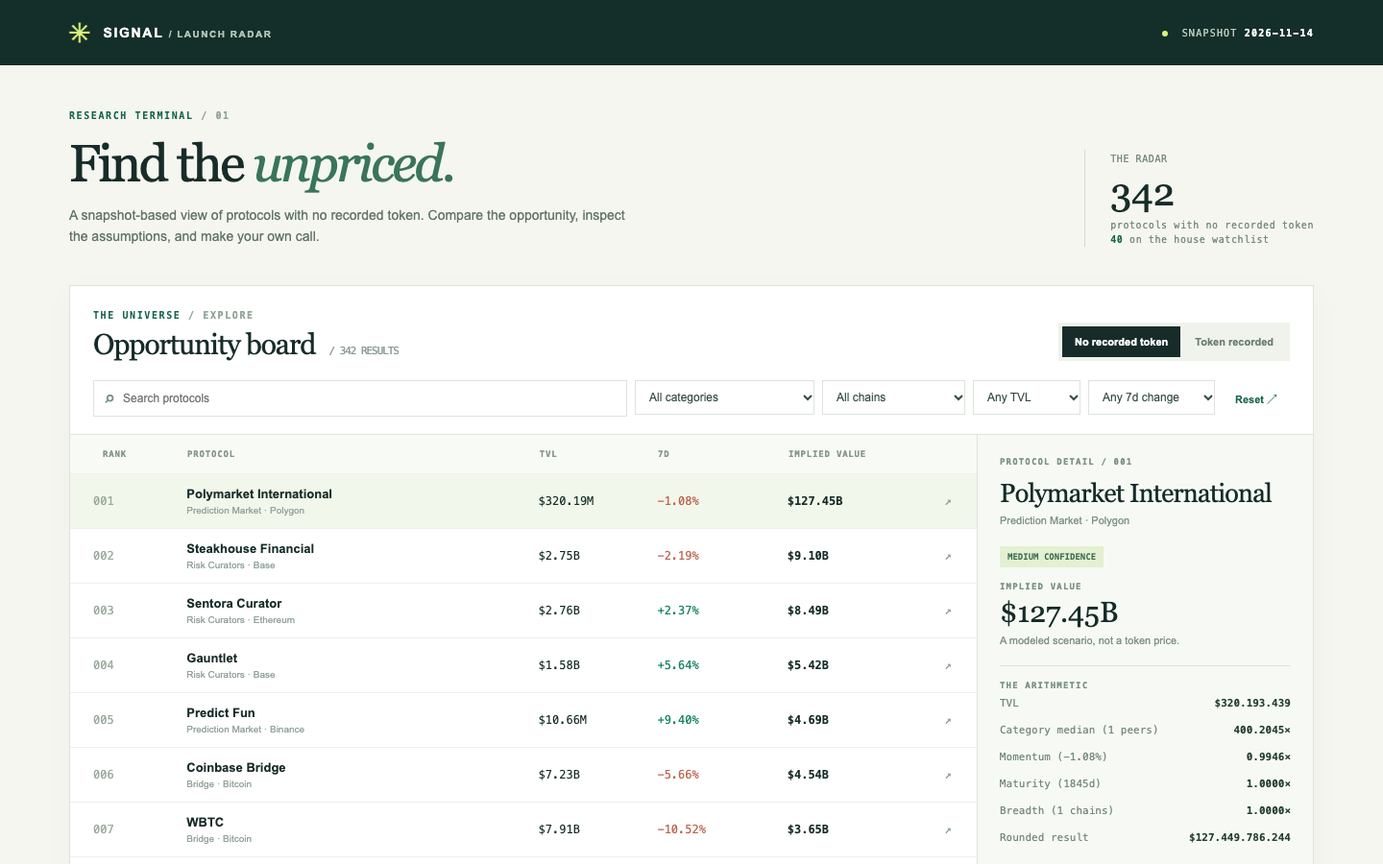
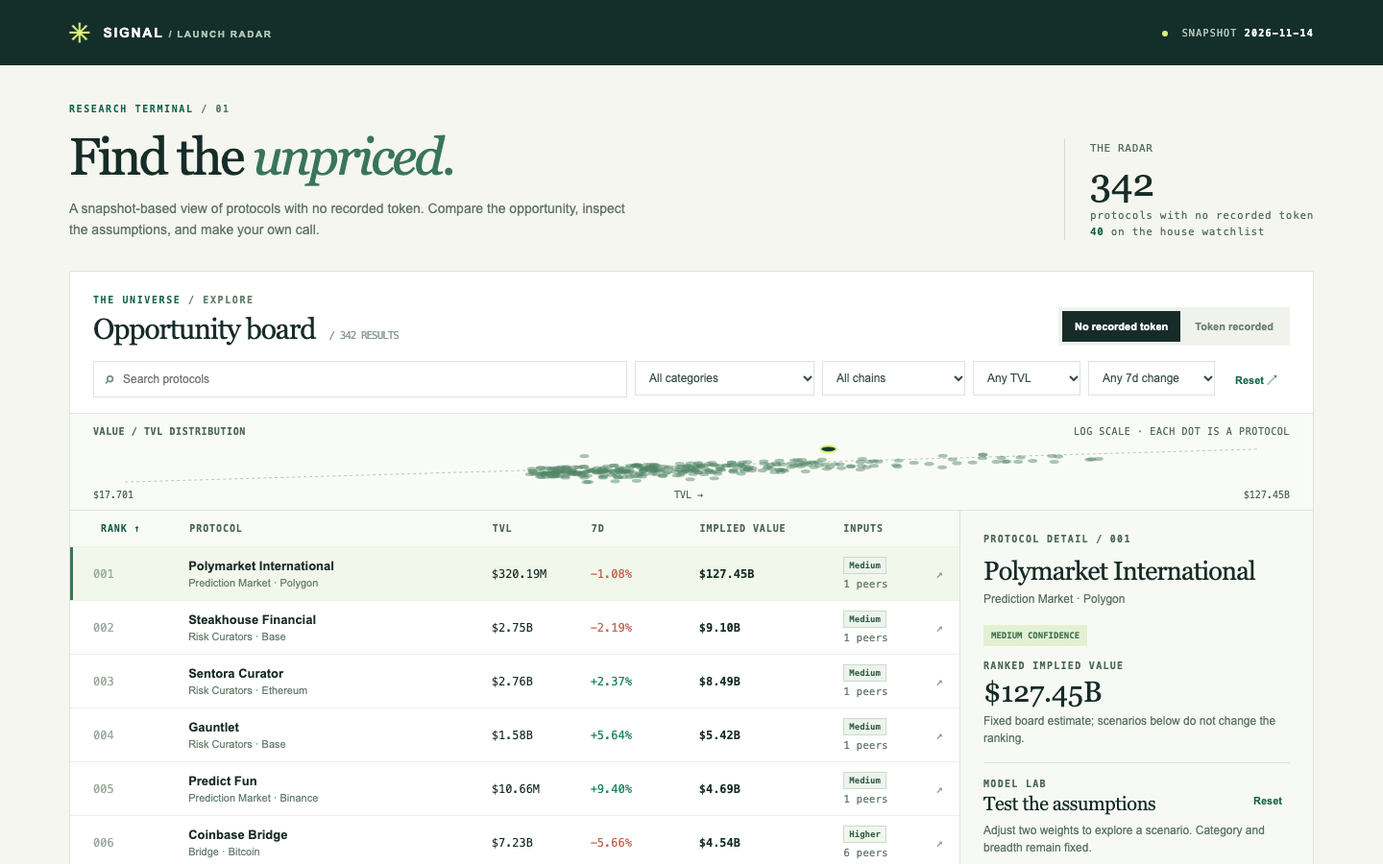
Radar dashboard: linkable state, keyboard navigation, live model panel

diff --git a/dashboard/app.js b/dashboard/app.js
@@ -1,47 +1,129 @@
-// The data script is generated by the same run as the ranked board.
+// The board remains fixed; scenario controls only change the selected detail.
 const data = window.RADAR;
-const $ = (s) => document.querySelector(s);
-const esc = (v) => String(v ?? '—').replace(/[&<>"']/g, c => ({'&':'&amp;','<':'&lt;','>':'&gt;','"':'&quot;',"'":'&#39;'}[c]));
-const money = n => n == null ? '—' : '$' + (n >= 1e9 ? (n/1e9).toFixed(2)+'B' : n >= 1e6 ? (n/1e6).toFixed(2)+'M' : Math.round(n).toLocaleString());
+const $ = s => document.querySelector(s);
+const escapeText = value => String(value ?? '—').replace(/[&<>"']/g, c => ({'&':'&amp;','<':'&lt;','>':'&gt;','"':'&quot;',"'":'&#39;'}[c]));
+const money = n => n == null ? '—' : '$' + (n >= 1e9 ? (n / 1e9).toFixed(2) + 'B' : n >= 1e6 ? (n / 1e6).toFixed(2) + 'M' : Math.round(n).toLocaleString());
+const dollars = n => '$' + Math.round(n).toLocaleString();
 const pct = n => n == null ? '—' : (n > 0 ? '+' : '') + n.toFixed(2) + '%';
-const x = n => n.toFixed(4) + '×';
-const state = {status:'early', sort:'rank', direction:1, selected:null};
-const params = new URLSearchParams(location.search);
-if (params.get('view') === 'live') state.status = 'live';
-if (params.get('category')) $('#category').dataset.initial = params.get('category');
-if (params.get('slug')) state.selected = params.get('slug');
+const multiple = n => n.toFixed(4) + '×';
+const defaults = {status:'early', sort:'rank', direction:'asc', category:'', chain:'', tvl:'', growth:'', search:'', slug:'', weight:'0.5', floor:'0.75'};
+const allowedSorts = ['rank','name','tvl_usd','change_7d','implied_value_usd'];
+let state = {...defaults};
+let visible = [];
+const all = [...data.rows, ...data.live];
 $('#date').textContent = data.as_of;
 $('#total').textContent = data.rows.length;
 $('#watch').textContent = data.watchlist_size;
-const all = [...data.rows,...data.live];
-for (const [selector, values] of [['#category', all.map(r=>r.category || 'Unclassified')], ['#chain', all.flatMap(r=>r.chains)]]) {
-  for (const value of [...new Set(values)].sort()) $(selector).add(new Option(value,value));
+for (const [selector, values] of [['#category', all.map(r => r.category || 'Unclassified')], ['#chain', all.flatMap(r => r.chains)]]) {
+  for (const value of [...new Set(values)].sort()) $(selector).add(new Option(value, value));
 }
-if ($('#category').dataset.initial) $('#category').value = $('#category').dataset.initial;
+function readURL() {
+  const params = new URLSearchParams(location.search);
+  state = {...defaults};
+  for (const key of Object.keys(defaults)) if (params.has(key)) state[key] = params.get(key);
+  // Continue accepting the original shared links.
+  if (!params.has('status') && params.get('view') === 'live') state.status = 'live';
+  if (!['early','live'].includes(state.status)) state.status = 'early';
+  if (state.status === 'live' && !params.has('sort')) { state.sort = 'implied_value_usd'; state.direction = 'desc'; }
+  if (!allowedSorts.includes(state.sort)) state.sort = 'rank';
+  if (!['asc','desc'].includes(state.direction)) state.direction = 'asc';
+  if (!['','small','mid','large'].includes(state.tvl)) state.tvl = '';
+  if (!['','up','down','missing'].includes(state.growth)) state.growth = '';
+  for (const [key, min, max] of [['weight',0,1],['floor',0.5,1]]) {
+    const value = Number(state[key]);
+    state[key] = Number.isFinite(value) ? String(Math.min(max, Math.max(min, value))) : defaults[key];
+  }
+  for (const key of ['category','chain','tvl','growth','search']) {
+    $('#' + key).value = state[key];
+    state[key] = $('#' + key).value;
+  }
+}
+function writeURL(push = false) {
+  const params = new URLSearchParams();
+  for (const key of Object.keys(defaults)) if (state[key] !== defaults[key] && state[key] !== '') params.set(key, state[key]);
+  const query = params.toString();
+  const url = location.pathname + (query ? '?' + query : '') + location.hash;
+  if (url !== location.pathname + location.search + location.hash) history[push ? 'pushState' : 'replaceState'](null, '', url);
+}
 function filtered() {
-  const q = $('#search').value.trim().toLowerCase(), category = $('#category').value, chain = $('#chain').value, tvl = $('#tvl').value, growth = $('#growth').value;
-  return (state.status === 'early' ? data.rows : data.live).filter(r => (!q || [r.name,r.slug,r.category,...r.chains].join(' ').toLowerCase().includes(q)) && (!category || (r.category || 'Unclassified') === category) && (!chain || r.chains.includes(chain)) && (!tvl || (tvl==='small' ? r.tvl_usd<5e7 : tvl==='mid' ? r.tvl_usd>=5e7 && r.tvl_usd<1e9 : r.tvl_usd>=1e9)) && (!growth || (growth==='missing' ? r.change_7d==null : r.change_7d!=null && (growth==='up' ? r.change_7d>0 : r.change_7d<0)))).sort((a,b)=>{
-    const av=a[state.sort], bv=b[state.sort]; if(av==null)return 1;if(bv==null)return -1;
-    return (typeof av==='string' ? av.localeCompare(bv) : av-bv)*state.direction || a.name.localeCompare(b.name);
+  const q = state.search.trim().toLowerCase();
+  return (state.status === 'early' ? data.rows : data.live).filter(r => {
+    const match = !q || [r.name,r.slug,r.category,...r.chains].join(' ').toLowerCase().includes(q);
+    const tvl = !state.tvl || (state.tvl === 'small' ? r.tvl_usd < 5e7 : state.tvl === 'mid' ? r.tvl_usd >= 5e7 && r.tvl_usd < 1e9 : r.tvl_usd >= 1e9);
+    const growth = !state.growth || (state.growth === 'missing' ? r.change_7d == null : r.change_7d != null && (state.growth === 'up' ? r.change_7d > 0 : r.change_7d < 0));
+    return match && tvl && growth && (!state.category || (r.category || 'Unclassified') === state.category) && (!state.chain || r.chains.includes(state.chain));
+  }).sort((a,b) => {
+    const av = a[state.sort], bv = b[state.sort];
+    if (av == null && bv == null) return a.name.localeCompare(b.name);
+    if (av == null) return 1;
+    if (bv == null) return -1;
+    const comparison = typeof av === 'string' ? av.localeCompare(bv) : av - bv;
+    return comparison * (state.direction === 'asc' ? 1 : -1) || a.name.localeCompare(b.name);
   });
 }
+function distribution(rows) {
+  const points = rows.filter(r => r.tvl_usd > 0 && r.implied_value_usd > 0);
+  if (!points.length) { $('#distribution').innerHTML = '<p class="plot-empty">No values to plot for this view.</p>'; return; }
+  const logs = points.flatMap(r => [Math.log10(r.tvl_usd), Math.log10(r.implied_value_usd)]);
+  const lo = Math.min(...logs), hi = Math.max(...logs), span = hi - lo || 1;
+  const pos = n => 16 + (Math.log10(n) - lo) / span * 568;
+  const marks = points.map(r => `<circle cx="${pos(r.tvl_usd).toFixed(2)}" cy="${(48 - (Math.log10(r.implied_value_usd) - lo) / span * 40).toFixed(2)}" r="${r.slug === state.slug ? 4 : 2.4}" class="${r.slug === state.slug ? 'plot-selected' : 'plot-dot'}"><title>${escapeText(r.name)}: TVL ${money(r.tvl_usd)}, ${state.status === 'early' ? 'implied value' : 'market cap'} ${money(r.implied_value_usd)}</title></circle>`).join('');
+  $('#distribution').innerHTML = `<svg viewBox="0 0 600 56" preserveAspectRatio="none" role="img" aria-label="Horizontal position is TVL, vertical position is ${state.status === 'early' ? 'implied value' : 'market cap'}, logarithmic scales"><line x1="16" y1="48" x2="584" y2="8" class="plot-parity"/>${marks}</svg><div class="plot-axis"><span>${money(10 ** lo)}</span><span>TVL →</span><span>${money(10 ** hi)}</span></div>`;
+}
+function scenario(r) {
+  const m = r.model, weight = Number(state.weight), floor = Number(state.floor);
+  const momentum = 1 + m.growth / 100 * weight;
+  const fraction = Math.min(r.age_days ?? 365, 730) / 730;
+  const maturity = floor + (1 - floor) * fraction;
+  const result = Math.max(1, Math.round(r.tvl_usd * m.multiple * momentum * maturity * m.breadth));
+  return {momentum, maturity, result, fraction};
+}
 function detail(r) {
-  if (!r) { $('#detail').innerHTML='<div class="label">PROTOCOL DETAIL</div><h3>No selection</h3><p class="sub">Change the filters to see a protocol.</p>'; return; }
-  const isEarly=state.status==='early', m=r.model;
-  $('#detail').innerHTML = `<div class="label">${isEarly?'PROTOCOL DETAIL / '+String(r.rank).padStart(3,'0'):'TOKEN RECORD'}</div><h3>${esc(r.name)}</h3><div class="sub">${esc(r.category || 'Unclassified')} · ${esc(r.chains.join(', ') || 'Chain not reported')}</div><div class="badge">${isEarly ? esc(r.confidence.toUpperCase())+' CONFIDENCE' : 'TOKEN RECORDED'}</div><div class="label">${isEarly?'IMPLIED VALUE':'RECORDED MARKET CAP'}</div><div class="detail-value">${money(r.implied_value_usd)}</div><div class="explain">${isEarly?'A modeled scenario, not a token price.':'Market cap from the snapshot; unavailable when not reported.'}</div>${isEarly ? `<div class="calc"><div class="label">THE ARITHMETIC</div><div class="calc-row"><span>TVL</span><b>$${r.tvl_usd.toLocaleString()}</b></div><div class="calc-row"><span>Category median (${m.peer_count} peers)</span><b>${x(m.multiple)}</b></div><div class="calc-row"><span>Momentum (${pct(r.change_7d)})</span><b>${x(m.momentum)}</b></div><div class="calc-row"><span>Maturity (${r.age_days==null?'365d fallback':r.age_days+'d'})</span><b>${x(m.maturity)}</b></div><div class="calc-row"><span>Breadth (${r.chains.length} chains)</span><b>${x(m.breadth)}</b></div><div class="calc-row"><span>Rounded result</span><b>$${r.implied_value_usd.toLocaleString()}</b></div></div><h4>FIELD PLAN / ESTIMATES</h4><ol>${r.farm_steps.map(s=>`<li>${esc(s)}</li>`).join('')}</ol>` : `<div class="calc"><div class="calc-row"><span>TVL</span><b>${money(r.tvl_usd)}</b></div><div class="calc-row"><span>7-day change</span><b>${pct(r.change_7d)}</b></div><div class="calc-row"><span>Symbol</span><b>${esc(r.symbol)}</b></div><div class="calc-row"><span>Listed</span><b>${esc(r.listed_at)}</b></div></div>`}`;
+  const panel = $('#detail');
+  if (!r) { panel.innerHTML = '<div class="label">PROTOCOL DETAIL</div><h3>No selection</h3><p class="sub">Change the filters to see a protocol.</p>'; return; }
+  const early = state.status === 'early', m = r.model;
+  panel.innerHTML = `<div class="label">${early ? 'PROTOCOL DETAIL / ' + String(r.rank).padStart(3,'0') : 'TOKEN RECORD'}</div><h3>${escapeText(r.name)}</h3><div class="sub">${escapeText(r.category || 'Unclassified')} · ${escapeText(r.chains.join(', ') || 'Chain not reported')}</div><div class="badge">${early ? escapeText(r.confidence.toUpperCase()) + ' CONFIDENCE' : 'TOKEN RECORDED'}</div><div class="label">${early ? 'RANKED IMPLIED VALUE' : 'RECORDED MARKET CAP'}</div><div class="detail-value">${money(r.implied_value_usd)}</div><div class="explain">${early ? 'Fixed board estimate; scenarios below do not change the ranking.' : 'Market cap from the snapshot; unavailable when not reported.'}</div>${early ? `<section class="calc"><div class="calc-heading"><div><div class="label">MODEL LAB</div><h4>Test the assumptions</h4></div><button id="reset-model" class="model-reset">Reset</button></div><p class="explain">Adjust two weights to explore a scenario. Category and breadth remain fixed.</p><label class="slider-label" for="weight">Momentum weight <output id="weight-value"></output></label><input class="slider" id="weight" type="range" min="0" max="1" step="0.05" value="${escapeText(state.weight)}"><label class="slider-label" for="floor">Maturity floor <output id="floor-value"></output></label><input class="slider" id="floor" type="range" min="0.5" max="1" step="0.05" value="${escapeText(state.floor)}"><div id="scenario-result" aria-live="polite"></div></section><h4>FIELD PLAN / ESTIMATES</h4><ol>${r.farm_steps.map(s => `<li>${escapeText(s)}</li>`).join('')}</ol><div class="record"><h4>SNAPSHOT RECORD</h4><div class="calc-row"><span>Listed</span><b>${escapeText(r.listed_at)}</b></div><div class="calc-row"><span>Watchlist</span><b>${r.watchlist ? 'Yes' : 'No'}</b></div><div class="calc-row"><span>Slug</span><b>${escapeText(r.slug)}</b></div></div>` : `<div class="calc"><div class="calc-row"><span>TVL</span><b>${money(r.tvl_usd)}</b></div><div class="calc-row"><span>7-day change</span><b>${pct(r.change_7d)}</b></div><div class="calc-row"><span>Symbol</span><b>${escapeText(r.symbol)}</b></div><div class="calc-row"><span>Listed</span><b>${escapeText(r.listed_at)}</b></div></div>`}`;
+  if (early) updateScenario(r);
+}
+function updateScenario(r) {
+  const m = r.model, s = scenario(r);
+  $('#weight-value').textContent = Number(state.weight).toFixed(2) + '×';
+  $('#floor-value').textContent = Number(state.floor).toFixed(2) + '×';
+  $('#scenario-result').innerHTML = `<div class="scenario-total"><span>SCENARIO VALUE</span><strong>${dollars(s.result)}</strong></div><div class="calc-row"><span>TVL</span><b>${dollars(r.tvl_usd)}</b></div><div class="calc-row"><span>Category median · ${m.peer_count} peers${m.peer_count ? '' : ' / fallback'}</span><b>${multiple(m.multiple)}</b></div><div class="calc-row"><span>Momentum · ${pct(m.growth)} clamped × ${Number(state.weight).toFixed(2)}</span><b>${multiple(s.momentum)}</b></div><div class="calc-row"><span>Maturity · ${r.age_days == null ? '365d fallback' : r.age_days + 'd'} / 730d</span><b>${multiple(s.maturity)}</b></div><div class="calc-row"><span>Breadth · ${r.chains.length} chains</span><b>${multiple(m.breadth)}</b></div><p class="formula">${dollars(r.tvl_usd)} × ${multiple(m.multiple)} × ${multiple(s.momentum)} × ${multiple(s.maturity)} × ${multiple(m.breadth)} = ${dollars(s.result)}<br><span>Terms shown rounded; calculation uses full precision.</span></p>`;
 }
 function render() {
-  document.querySelectorAll('[data-status]').forEach(b=>b.classList.toggle('active',b.dataset.status===state.status));
-  const rows=filtered(); if (!rows.some(r=>r.slug===state.selected)) state.selected=rows[0]?.slug || null;
-  $('#count').textContent=`/ ${rows.length} RESULTS`;
-  $('#shown').textContent=`${rows.length} RECORDS · ${state.status==='early'?'RANKED BY MODEL':'MARKET CAP VIEW'}`;
-  $('#empty').hidden=rows.length>0;
-  $('#rows').innerHTML=rows.map(r=>`<tr class="data ${r.slug===state.selected?'selected':''}" data-slug="${esc(r.slug)}"><td class="rank">${r.rank ? String(r.rank).padStart(3,'0') : '—'}</td><td class="name">${esc(r.name)}<small>${esc(r.category || 'Unclassified')} · ${esc(r.chains[0] || 'No chain')}</small></td><td>${money(r.tvl_usd)}</td><td class="${r.change_7d>0?'positive':r.change_7d<0?'negative':''}">${pct(r.change_7d)}</td><td class="value">${money(r.implied_value_usd)}</td><td class="arrow">↗</td></tr>`).join('');
-  detail(rows.find(r=>r.slug===state.selected));
+  document.querySelectorAll('[data-status]').forEach(b => { b.classList.toggle('active', b.dataset.status === state.status); b.setAttribute('aria-pressed', String(b.dataset.status === state.status)); });
+  visible = filtered();
+  if (!visible.some(r => r.slug === state.slug)) state.slug = visible[0]?.slug || '';
+  $('#count').textContent = `/ ${visible.length} RESULTS`;
+  $('#shown').textContent = `${visible.length} RECORDS · ${state.status === 'early' ? 'MODEL VIEW' : 'MARKET CAP VIEW'}`;
+  $('#empty').hidden = visible.length > 0;
+  document.querySelectorAll('[data-sort]').forEach(b => { const active = b.dataset.sort === state.sort; b.classList.toggle('sorting',active); b.setAttribute('aria-label', b.textContent.replace(/ [↑↓]$/, '') + (active ? ', sorted ' + state.direction : ', sort')); b.textContent = b.textContent.replace(/ [↑↓]$/, '') + (active ? (state.direction === 'asc' ? ' ↑' : ' ↓') : ''); });
+  $('#rows').innerHTML = visible.map(r => `<tr class="data ${r.slug === state.slug ? 'selected' : ''}" data-slug="${escapeText(r.slug)}" aria-selected="${r.slug === state.slug}"><td class="rank">${r.rank ? String(r.rank).padStart(3,'0') : '—'}</td><td class="name">${escapeText(r.name)}<small>${escapeText(r.category || 'Unclassified')} · ${escapeText(r.chains[0] || 'No chain')}</small></td><td>${money(r.tvl_usd)}</td><td class="${r.change_7d > 0 ? 'positive' : r.change_7d < 0 ? 'negative' : ''}">${pct(r.change_7d)}</td><td class="value">${money(r.implied_value_usd)}</td><td>${r.model ? `<span class="confidence ${r.confidence.toLowerCase()}">${escapeText(r.confidence)}</span><small class="peer-count">${r.model.peer_count} peers</small>` : '<span class="peer-count">Market cap</span>'}</td><td class="arrow">↗</td></tr>`).join('');
+  distribution(visible);
+  detail(visible.find(r => r.slug === state.slug));
+  writeURL();
 }
-$('#rows').addEventListener('click',e=>{const row=e.target.closest('tr[data-slug]');if(row){state.selected=row.dataset.slug;render();}});
-document.querySelectorAll('[data-status]').forEach(b=>b.addEventListener('click',()=>{state.status=b.dataset.status;state.sort=state.status==='early'?'rank':'implied_value_usd';state.direction=state.status==='early'?1:-1;state.selected=null;render();}));
-document.querySelectorAll('[data-sort]').forEach(b=>b.addEventListener('click',()=>{const key=b.dataset.sort;state.direction=state.sort===key?-state.direction:(key==='name'||key==='rank'?1:-1);state.sort=key;render();}));
-document.querySelectorAll('input,select').forEach(el=>el.addEventListener('input',render));
-$('#reset').addEventListener('click',()=>{document.querySelectorAll('input,select').forEach(el=>el.value='');render();});
+function selectRelative(offset) {
+  if (!visible.length) return;
+  const current = visible.findIndex(r => r.slug === state.slug);
+  state.slug = visible[Math.max(0, Math.min(visible.length - 1, current + offset))].slug;
+  writeURL(true); render();
+  document.querySelector('tr.selected')?.scrollIntoView({block:'nearest'});
+}
+$('#rows').addEventListener('click', e => { const row = e.target.closest('tr[data-slug]'); if (row) { state.slug = row.dataset.slug; writeURL(true); render(); } });
+document.querySelectorAll('[data-status]').forEach(b => b.addEventListener('click', () => { state.status = b.dataset.status; state.sort = state.status === 'early' ? 'rank' : 'implied_value_usd'; state.direction = state.status === 'early' ? 'asc' : 'desc'; state.slug = ''; writeURL(true); render(); }));
+document.querySelectorAll('[data-sort]').forEach(b => b.addEventListener('click', () => { const key = b.dataset.sort; state.direction = state.sort === key ? (state.direction === 'asc' ? 'desc' : 'asc') : (key === 'name' || key === 'rank' ? 'asc' : 'desc'); state.sort = key; writeURL(true); render(); }));
+for (const key of ['category','chain','tvl','growth','search']) $('#' + key).addEventListener('input', e => { state[key] = e.target.value; state.slug = ''; writeURL(key !== 'search'); render(); });
+$('#reset').addEventListener('click', () => { for (const key of ['category','chain','tvl','growth','search']) { state[key] = ''; $('#' + key).value = ''; } state.slug = ''; writeURL(true); render(); });
+$('#detail').addEventListener('input', e => { if (e.target.id === 'weight' || e.target.id === 'floor') { state[e.target.id] = e.target.value; writeURL(); const row = visible.find(r => r.slug === state.slug); if (row?.model) updateScenario(row); } });
+$('#detail').addEventListener('click', e => { if (e.target.id === 'reset-model') { state.weight = defaults.weight; state.floor = defaults.floor; writeURL(true); detail(visible.find(r => r.slug === state.slug)); } });
+document.addEventListener('keydown', e => {
+  if (e.key === 'Escape') { if (state.search) { state.search = ''; $('#search').value = ''; state.slug = ''; writeURL(true); render(); } return; }
+  if (e.target.matches('input, select, textarea, button') || e.target.isContentEditable || e.metaKey || e.ctrlKey || e.altKey) return;
+  if (['j','ArrowDown','k','ArrowUp'].includes(e.key)) { e.preventDefault(); selectRelative(e.key === 'j' || e.key === 'ArrowDown' ? 1 : -1); }
+  if (e.key === 'Enter' && state.slug) { e.preventDefault(); $('#detail').focus(); $('#detail').scrollIntoView({block:'nearest'}); }
+});
+window.addEventListener('popstate', () => { readURL(); render(); });
+readURL();
 render();

diff --git a/dashboard/app.css b/dashboard/app.css
@@ -1,3 +1,14 @@
 :root{--ink:#172c29;--muted:#6c7d76;--paper:#f5f6ef;--line:#dce4db;--green:#17644e;--lime:#d8f27a;--white:#fff}*{box-sizing:border-box}body{margin:0;background:var(--paper);color:var(--ink);font-family:Arial,Helvetica,sans-serif;font-size:14px}.top{height:68px;background:#142f29;color:#fff;display:flex;align-items:center;justify-content:space-between;padding:0 5%;position:sticky;top:0;z-index:5}.brand{color:inherit;text-decoration:none;display:flex;align-items:center;gap:12px;font-weight:800;letter-spacing:.12em}.brandmark{font-size:29px;color:var(--lime)}.brand small{font-size:10px;letter-spacing:.15em;color:#afc4b7}.topnote{font:10px monospace;letter-spacing:.12em;color:#b8cabe}.topnote i{display:inline-block;background:var(--lime);width:6px;height:6px;border-radius:50%;margin-right:8px}.topnote b{color:#fff}main{max-width:1500px;margin:auto;padding:0 5%}.intro{display:flex;justify-content:space-between;align-items:end;padding:47px 0 40px}.intro>div:first-child{max-width:690px}.eyebrow{font:700 10px monospace;letter-spacing:.16em;color:var(--green)}.eyebrow span{color:#94a79a}h1,h2,p{margin:0}h1{font:500 54px Georgia,serif;letter-spacing:-.045em;margin:13px 0}em{font-weight:400;color:#39745c}h1+p,.method>div>p{line-height:1.55;color:#60746a;max-width:580px}.intro-side{border-left:1px solid #cfdcd1;padding-left:26px;min-width:225px}.intro-side span,.intro-side p,.table-foot{font:10px/1.5 monospace;letter-spacing:.06em;color:#778a80}.intro-side strong{display:block;font:40px Georgia,serif;margin:4px 0}.intro-side b{color:var(--green)}.workspace{background:#fff;border:1px solid var(--line);box-shadow:0 9px 30px #24432c08}.section-head{display:flex;align-items:end;justify-content:space-between;padding:25px 24px 20px}.section-head h2,.method h2{font:30px Georgia,serif;letter-spacing:-.035em;margin-top:7px}.section-head h2 span{font:11px monospace;color:#8a9b90;margin-left:8px}.tabs{display:flex;background:#eff3ec;padding:4px;gap:2px}.tabs button,.reset{border:0;background:transparent;color:#6b7d72;cursor:pointer;font-size:11px;font-weight:bold;padding:10px 13px}.tabs button.active{background:var(--ink);color:white}.filters{display:flex;gap:8px;padding:0 24px 18px;border-bottom:1px solid var(--line)}input,select{font:12px Arial;color:#334c40;background:#fff;border:1px solid var(--line);height:36px;outline-color:#75a584}select{padding:0 23px 0 10px;min-width:0}.search{border:1px solid var(--line);display:flex;align-items:center;padding:0 10px;flex:1;min-width:120px}.search span{font-size:20px;color:#769185}.search input{border:0;width:100%;padding-left:8px}.reset{white-space:nowrap;color:var(--green)}.content{display:grid;grid-template-columns:minmax(0,1fr) 350px}.table-wrap{min-width:0}.table-scroll{height:520px;overflow:auto}table{border-collapse:collapse;width:100%;text-align:left}th{position:sticky;top:0;background:#f8faf6;z-index:1}th button{border:0;background:transparent;font:700 9px monospace;letter-spacing:.09em;color:#85978b;padding:14px 10px;cursor:pointer;white-space:nowrap}td{border-top:1px solid #edf1ea;padding:13px 10px;white-space:nowrap;font:12px monospace}th:first-child,td:first-child{padding-left:24px}tr.data{cursor:pointer}tr.data:hover,tr.selected{background:#f1f7ea}td.name{font:700 13px Arial;white-space:normal;min-width:150px}td.name small{display:block;font:10px Arial;color:#92a399;margin-top:4px}td.rank{color:#9bab9f}td.value{font-weight:bold}td.arrow{color:#8fa396}.positive{color:#16835e}.negative{color:#bf654f}.table-foot{padding:14px 24px;display:flex;justify-content:space-between;border-top:1px solid var(--line);font-size:9px}.detail{background:#f7faf4;border-left:1px solid var(--line);padding:23px;overflow:auto;max-height:560px}.detail .label{font:700 9px monospace;letter-spacing:.13em;color:#7c9183}.detail h3{font:27px Georgia,serif;letter-spacing:-.03em;margin:12px 0 5px}.detail .sub{color:#809287;font-size:11px;line-height:1.5}.badge{display:inline-block;background:#e3f0d2;color:#3c6d4e;font:700 9px monospace;padding:6px 8px;margin:18px 0 15px}.detail-value{font:30px Georgia,serif;margin:4px 0}.detail .explain{font-size:11px;color:#7e9184;line-height:1.5}.calc{border-top:1px solid var(--line);margin-top:18px;padding-top:15px}.calc-row{display:flex;justify-content:space-between;gap:10px;font:11px/1.45 monospace;padding:6px 0;color:#73887a}.calc-row b{color:#243e32;text-align:right}.detail h4{font:700 10px monospace;letter-spacing:.1em;margin:20px 0 10px}.detail ol{padding-left:19px;margin:0}.detail li{font:11px/1.5 Arial;color:#536b5d;padding:0 0 10px 4px}.method{display:grid;grid-template-columns:1fr 1.5fr;gap:60px;padding:66px 0}.method h2{font-size:38px;margin:15px 0}.method-grid{display:grid;grid-template-columns:1fr 1fr;gap:25px}.method-grid b{font:700 10px monospace;color:var(--green);letter-spacing:.08em}.method-grid p{font-size:12px;line-height:1.6;color:#718278;margin-top:8px}.wide{grid-column:span 2}footer{border-top:1px solid var(--line);padding:25px 5%;display:flex;justify-content:space-between;font:700 10px monospace;letter-spacing:.1em;color:#557264}.muted{color:#a2b1a5}@media(max-width:900px){.content{grid-template-columns:1fr}.detail{border-left:0;border-top:1px solid var(--line);max-height:none}.filters{flex-wrap:wrap}.search{flex-basis:100%}.intro-side{display:none}.method{grid-template-columns:1fr}.topnote{display:none}}@media(max-width:600px){h1{font-size:42px}.section-head{align-items:start;gap:15px;flex-direction:column}.filters select{flex:1}.method-grid{grid-template-columns:1fr}.wide{grid-column:auto}.table-scroll{height:450px}}
 
 button:focus-visible, tr:focus-visible{outline:2px solid #39745c;outline-offset:2px}
+/* Data and controls share the same measured spacing and numeral treatment. */
+:root{--space-1:4px;--space-2:8px;--space-3:12px;--space-4:16px;--space-6:24px;--space-8:32px;--line-strong:#b9ccbd;--soft:#edf4e8}
+body{font-variant-numeric:tabular-nums}::selection{background:#d8f27a;color:#142f29}input,select,button{font-variant-numeric:tabular-nums;accent-color:var(--green)}
+.intro{padding:40px 0 32px}.section-head{padding:24px 24px 16px}.filters{padding-bottom:16px}.workspace{box-shadow:none}.content{grid-template-columns:minmax(0,1fr) 368px}.table-scroll{height:504px}.detail{max-height:552px;padding:24px}.table-foot{gap:12px;align-items:center;flex-wrap:wrap;padding:12px 24px}.keys{line-height:1.8;color:#506b5a}kbd{border:1px solid #c7d7c9;background:#fff;color:#345444;border-radius:3px;padding:2px 4px;font:10px monospace}
+.distribution{padding:12px 24px 8px;border-bottom:1px solid var(--line);background:#f9fbf7}.distribution-head,.plot-axis{display:flex;justify-content:space-between;gap:8px;font:700 9px/1.4 monospace;letter-spacing:.06em;color:#597464}.distribution-head span:last-child{font-weight:400;color:#708979}.distribution svg{display:block;width:100%;height:48px;margin-top:4px;overflow:visible}.plot-parity{stroke:#b8cbb9;stroke-width:1;stroke-dasharray:3 3;vector-effect:non-scaling-stroke}.plot-dot{fill:#518567;fill-opacity:.48}.plot-selected{fill:#173d2d;stroke:#d8f27a;stroke-width:2;vector-effect:non-scaling-stroke}.plot-axis{font-weight:400;letter-spacing:0}.plot-empty{font-size:11px;color:#587260;padding:16px 0}
+th:not(:has(button)){font:700 9px monospace;letter-spacing:.09em;color:#607b69;padding:12px 8px}th button{color:#627d6b;padding:12px 8px}th button.sorting{color:#185c46}td{padding:10px 8px}td.name small{color:#647d6d}.confidence{display:inline-block;font:700 9px monospace;border:1px solid #cbdac9;color:#315b43;padding:3px 5px;background:#f0f7eb}.confidence.limited{background:#f7f6ec;color:#6f714e;border-color:#e4e1c8}.confidence.medium{background:#edf4ed}.peer-count{display:block;margin-top:4px;font:10px monospace;color:#617968}.selected td:first-child{box-shadow:inset 3px 0 #39745c}.detail .sub,.detail .explain{color:#5a7362}.detail .label{color:#587561}.detail h4{margin:16px 0 8px}.calc{margin-top:16px;padding-top:16px}.calc-heading{display:flex;align-items:center;justify-content:space-between}.calc-heading h4{font:20px Georgia,serif;letter-spacing:-.02em;margin:4px 0 8px}.model-reset{border:0;background:none;color:var(--green);font-weight:bold;font-size:11px;cursor:pointer;padding:8px}.slider-label{display:flex;justify-content:space-between;gap:8px;font-size:11px;font-weight:bold;color:#3e5b49;margin-top:16px}.slider-label output{font:11px monospace}.slider{display:block;width:100%;height:20px;margin:4px 0 0;cursor:pointer}.scenario-total{display:flex;flex-direction:column;gap:4px;background:#e7f1df;padding:12px;margin:16px 0 8px}.scenario-total span{font:700 9px monospace;letter-spacing:.09em;color:#4b7356}.scenario-total strong{font:22px Georgia,serif;color:#183d2d}.calc-row{padding:4px 0;color:#536f5b}.formula{font:10px/1.6 monospace;color:#355947;background:#edf4e8;padding:8px;margin:8px 0;overflow-wrap:anywhere}.formula span{color:#5a7862}.record{border-top:1px solid var(--line);margin-top:16px}.detail li{color:#425e4b}.detail:focus-visible, input:focus-visible,select:focus-visible{outline:2px solid #39745c;outline-offset:2px}
+@media(max-width:1100px){.content{grid-template-columns:minmax(0,1fr) 320px}.table-scroll{overflow:auto}table{min-width:650px}.keys{font-size:9px}}
+@media(max-width:900px){.content{grid-template-columns:1fr}.detail{max-height:none}.distribution-head span:last-child{display:none}.detail:focus{scroll-margin-top:80px}}
+
+/* Contrast and minimum size for dense secondary data. */
+.intro-side span,.intro-side p,.table-foot,.method-grid p{color:#526d5a}.eyebrow span,.muted{color:#617d6a}.distribution-head,.distribution-head span:last-child,.plot-axis{color:#4d6955}th button,th:not(:has(button)),.detail .label,.label{font-size:10px;color:#4d6955}.peer-count,td.name small{font-size:11px}.detail .explain,.detail li,.detail .sub{font-size:12px}.formula{font-size:11px}.method-grid p{font-size:13px}.intro-side span,.intro-side p,.table-foot{font-size:11px}.distribution-head,.plot-axis{font-size:10px}

diff --git a/dashboard/index.html b/dashboard/index.html
@@ -14,7 +14,8 @@
 <section class="intro"><div><div class="eyebrow">RESEARCH TERMINAL <span> / 01</span></div><h1>Find the <em>unpriced.</em></h1><p>A snapshot-based view of protocols with no recorded token. Compare the opportunity, inspect the assumptions, and make your own call.</p></div><div class="intro-side"><span>THE RADAR</span><strong id="total">—</strong><p>protocols with no recorded token<br><b id="watch">—</b> on the house watchlist</p></div></section>
 <section class="workspace"><div class="section-head"><div><div class="eyebrow">THE UNIVERSE <span> / EXPLORE</span></div><h2>Opportunity board <span id="count"></span></h2></div><div class="tabs" role="group" aria-label="Token status"><button data-status="early" class="active">No recorded token</button><button data-status="live">Token recorded</button></div></div>
 <div class="filters"><label class="search"><span>⌕</span><input id="search" placeholder="Search protocols" aria-label="Search protocols"></label><select id="category" aria-label="Filter category"><option value="">All categories</option></select><select id="chain" aria-label="Filter chain"><option value="">All chains</option></select><select id="tvl" aria-label="Filter TVL"><option value="">Any TVL</option><option value="small">$5M–$50M</option><option value="mid">$50M–$1B</option><option value="large">$1B+</option></select><select id="growth" aria-label="Filter growth"><option value="">Any 7d change</option><option value="up">Growing</option><option value="down">Declining</option><option value="missing">Not reported</option></select><button id="reset" class="reset">Reset ↗</button></div>
-<div class="content"><div class="table-wrap"><div class="table-scroll"><table><thead><tr><th><button data-sort="rank">RANK</button></th><th><button data-sort="name">PROTOCOL</button></th><th><button data-sort="tvl_usd">TVL</button></th><th><button data-sort="change_7d">7D</button></th><th><button data-sort="implied_value_usd">IMPLIED VALUE</button></th><th></th></tr></thead><tbody id="rows"></tbody></table><div id="empty" hidden>No matching protocols. Try clearing a filter.</div></div><div class="table-foot"><span id="shown"></span><span>SELECT A ROW TO INSPECT ↗</span></div></div><aside id="detail" class="detail"></aside></div>
+<div class="distribution"><div class="distribution-head"><span>VALUE / TVL DISTRIBUTION</span><span>LOG SCALE · EACH DOT IS A PROTOCOL</span></div><div id="distribution" aria-label="Distribution of visible protocols by TVL and value"></div></div>
+<div class="content"><div class="table-wrap"><div class="table-scroll"><table><thead><tr><th><button data-sort="rank">RANK</button></th><th><button data-sort="name">PROTOCOL</button></th><th><button data-sort="tvl_usd">TVL</button></th><th><button data-sort="change_7d">7D</button></th><th><button data-sort="implied_value_usd">IMPLIED VALUE</button></th><th>INPUTS</th><th></th></tr></thead><tbody id="rows"></tbody></table><div id="empty" hidden>No matching protocols. Try clearing a filter.</div></div><div class="table-foot"><span id="shown"></span><span class="keys"><kbd>j</kbd> / <kbd>k</kbd> or <kbd>↑</kbd> <kbd>↓</kbd> select &nbsp; <kbd>enter</kbd> detail &nbsp; <kbd>esc</kbd> clear search</span></div></div><aside id="detail" class="detail" tabindex="-1" aria-label="Selected protocol details"></aside></div>
 </section>
 <section class="method"><div><div class="eyebrow">METHODOLOGY <span> / READ BEFORE USING</span></div><h2>A comparable<br><em>starting point.</em></h2><p>Implied value is a scenario based on recorded TVL, not a token price, fully diluted valuation, or a forecast of a launch. The snapshot cannot establish whether a token or rewards program actually exists.</p></div><div class="method-grid"><div><b>01 / CATEGORY</b><p>Median market cap ÷ TVL of snapshot protocols with positive market cap in the same category. With no peers, use 1.00×. Peer counts are shown per row.</p></div><div><b>02 / MOMENTUM</b><p>1 + clamped 7-day TVL change ÷ 200, with change limited to −50%…+50%. Missing change uses 0%.</p></div><div><b>03 / MATURITY</b><p>0.75 + 0.25 × min(days since listing, 730) ÷ 730. Missing dates use 365 days. Listing age is only a proxy for operating history.</p></div><div><b>04 / BREADTH</b><p>1 + 0.05 × min(max(chain count − 1, 0), 4). Multiply all four terms by TVL and round to whole dollars.</p></div><div class="wide"><b>CONFIDENCE / INPUT COVERAGE</b><p>Higher: at least 3 priced peers, reported growth, age and a chain. Medium: at least one peer, reported growth and age. Limited: otherwise. This describes data completeness, not statistical certainty. Peer ratios can be distorted by outliers and token supply.</p></div></div></section>
 </main><footer><span>✳ SIGNAL <span class="muted"> / LAUNCH RADAR</span></span><span>SEALED DEFILLAMA SNAPSHOT · NO LIVE DATA</span></footer>

diff --git a/lib/model.ts b/lib/model.ts
@@ -4,6 +4,8 @@ const median = (a: number[]) => {
   const s = [...a].sort((x, y) => x - y), i = Math.floor(s.length / 2);
   return s.length % 2 ? s[i] : (s[i - 1] + s[i]) / 2;
 };
+// These published defaults also initialize the dashboard's scenario controls.
+export const MODEL_DEFAULTS = { momentum_weight: 0.5, maturity_floor: 0.75, maturity_days: 730, unknown_age_days: 365 };
 const noToken = (p: any) => !p.gecko_id && !p.symbol && !(p.mcap_usd > 0);
 function plan(p: any, age: number | null): string[] {
   const chain = p.chains[0] || 'the supported chain';
@@ -43,5 +45,5 @@ export function build(snapshot: any) {
   }).sort((a: any,b: any) => b.implied_value_usd - a.implied_value_usd || a.slug.localeCompare(b.slug));
   rows.forEach((r: any, i: number) => r.rank = i + 1);
   const live = snapshot.protocols.filter((p: any) => !noToken(p) && !watch.has(p.slug)).map((p: any) => ({...p, implied_value_usd: p.mcap_usd > 0 ? p.mcap_usd : null})).sort((a: any,b: any) => (b.mcap_usd || 0) - (a.mcap_usd || 0));
-  return {as_of: snapshot.as_of, source: snapshot.source, watchlist_size: watch.size, rows, live};
+  return {as_of: snapshot.as_of, source: snapshot.source, watchlist_size: watch.size, model_defaults: MODEL_DEFAULTS, rows, live};
 }
